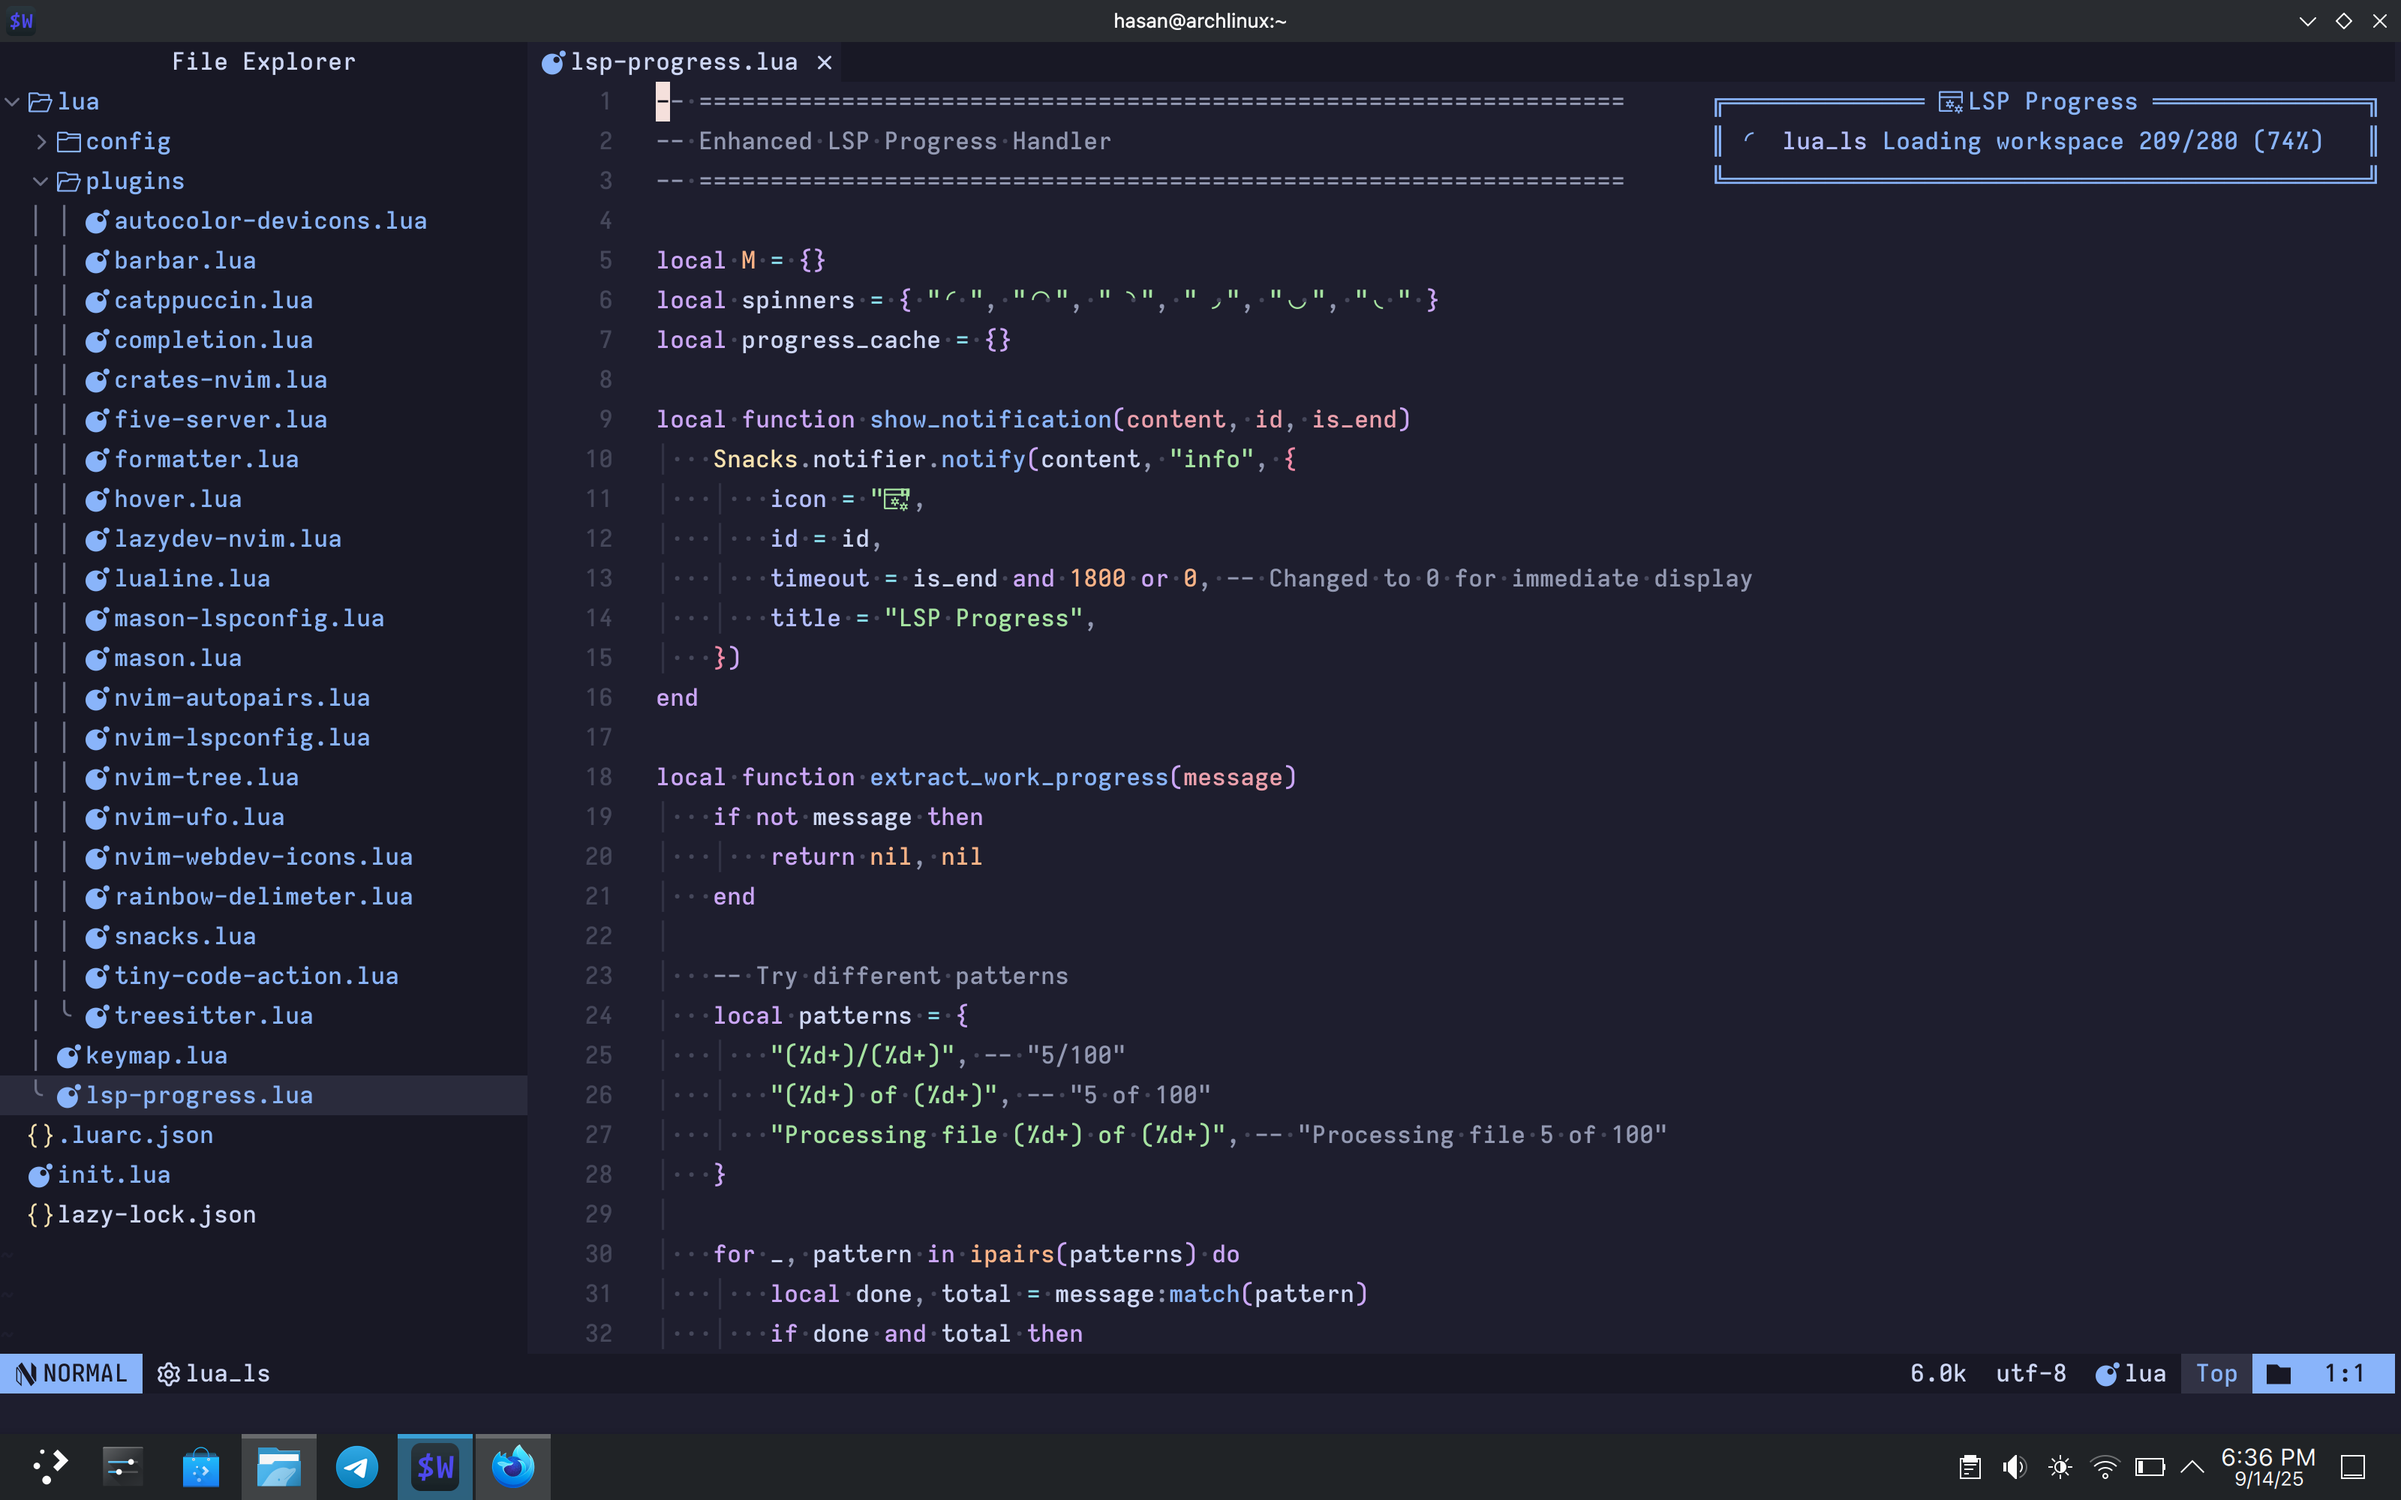
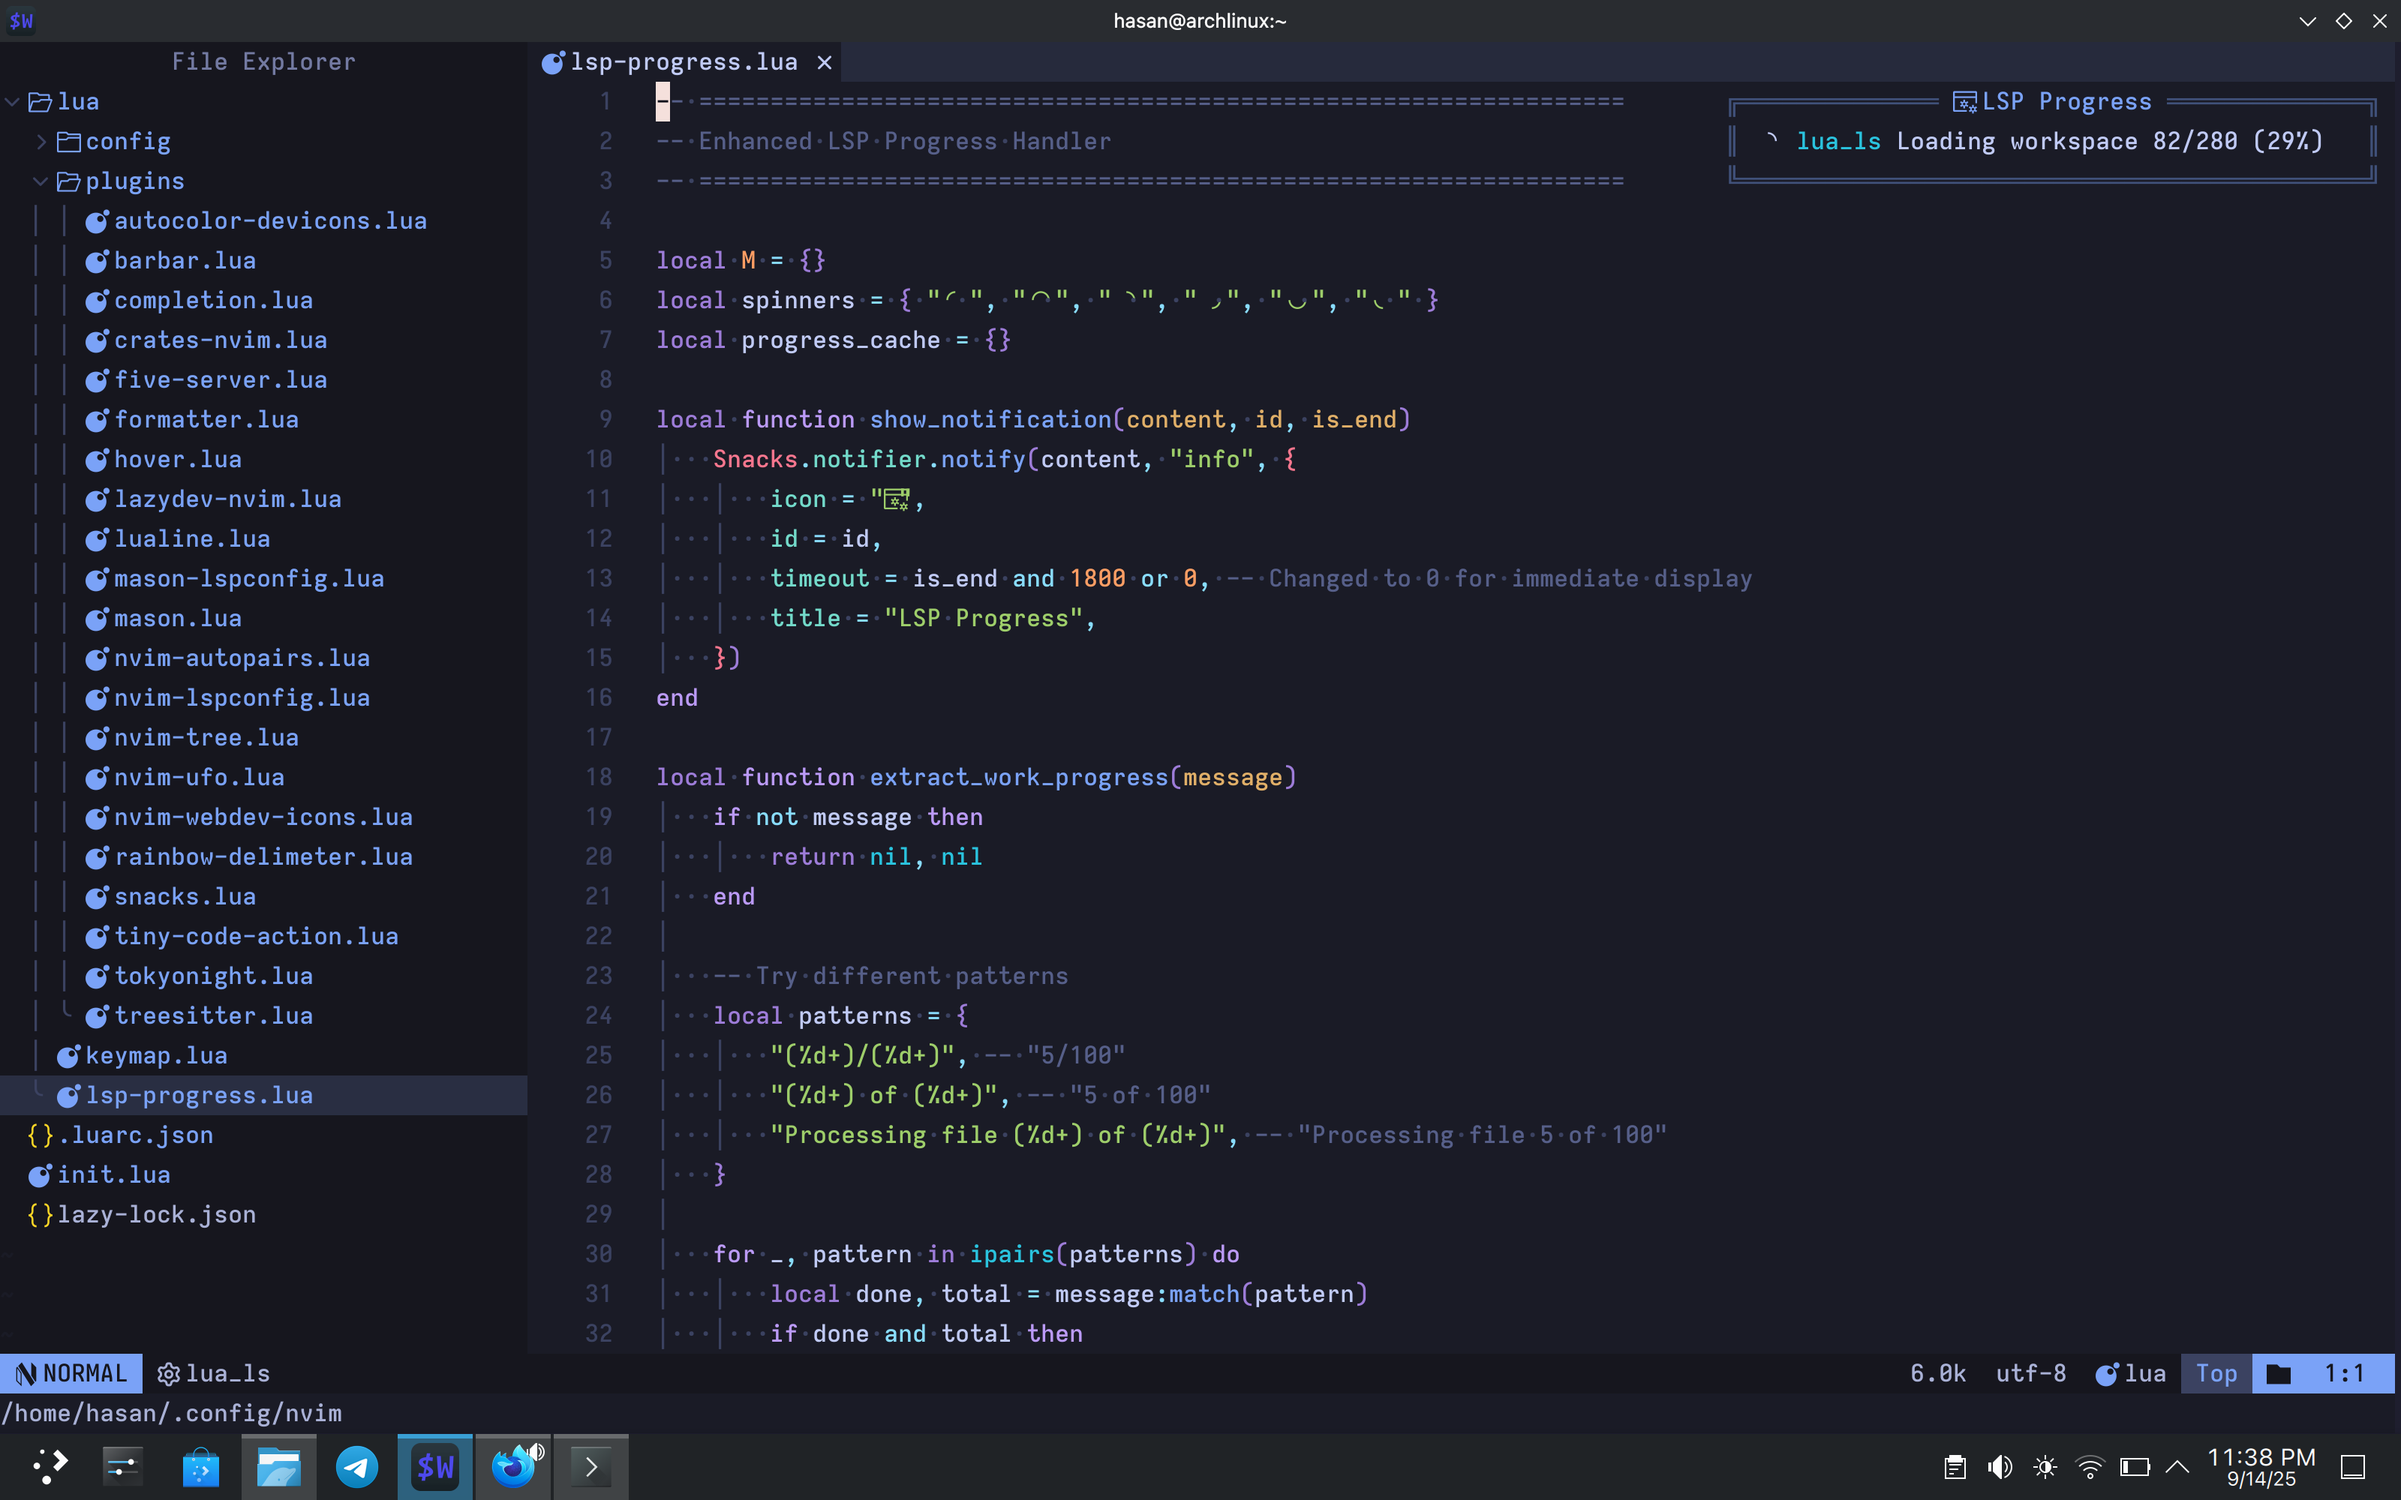
change screenshot to tokyonight theme

diff --git a/README.md b/README.md
@@ -9,6 +9,8 @@ My Personal neovim config with great customization.
 
 <img src="./images/img_3.png">
 
+<img src="./images/img_4.png">
+
 ## Steps to install
 
 Copy <code>lua</code>, <code>.luarc.json</code> and <code>init.lua</code> to <code>"$HOME/.config/nvim"</code>
